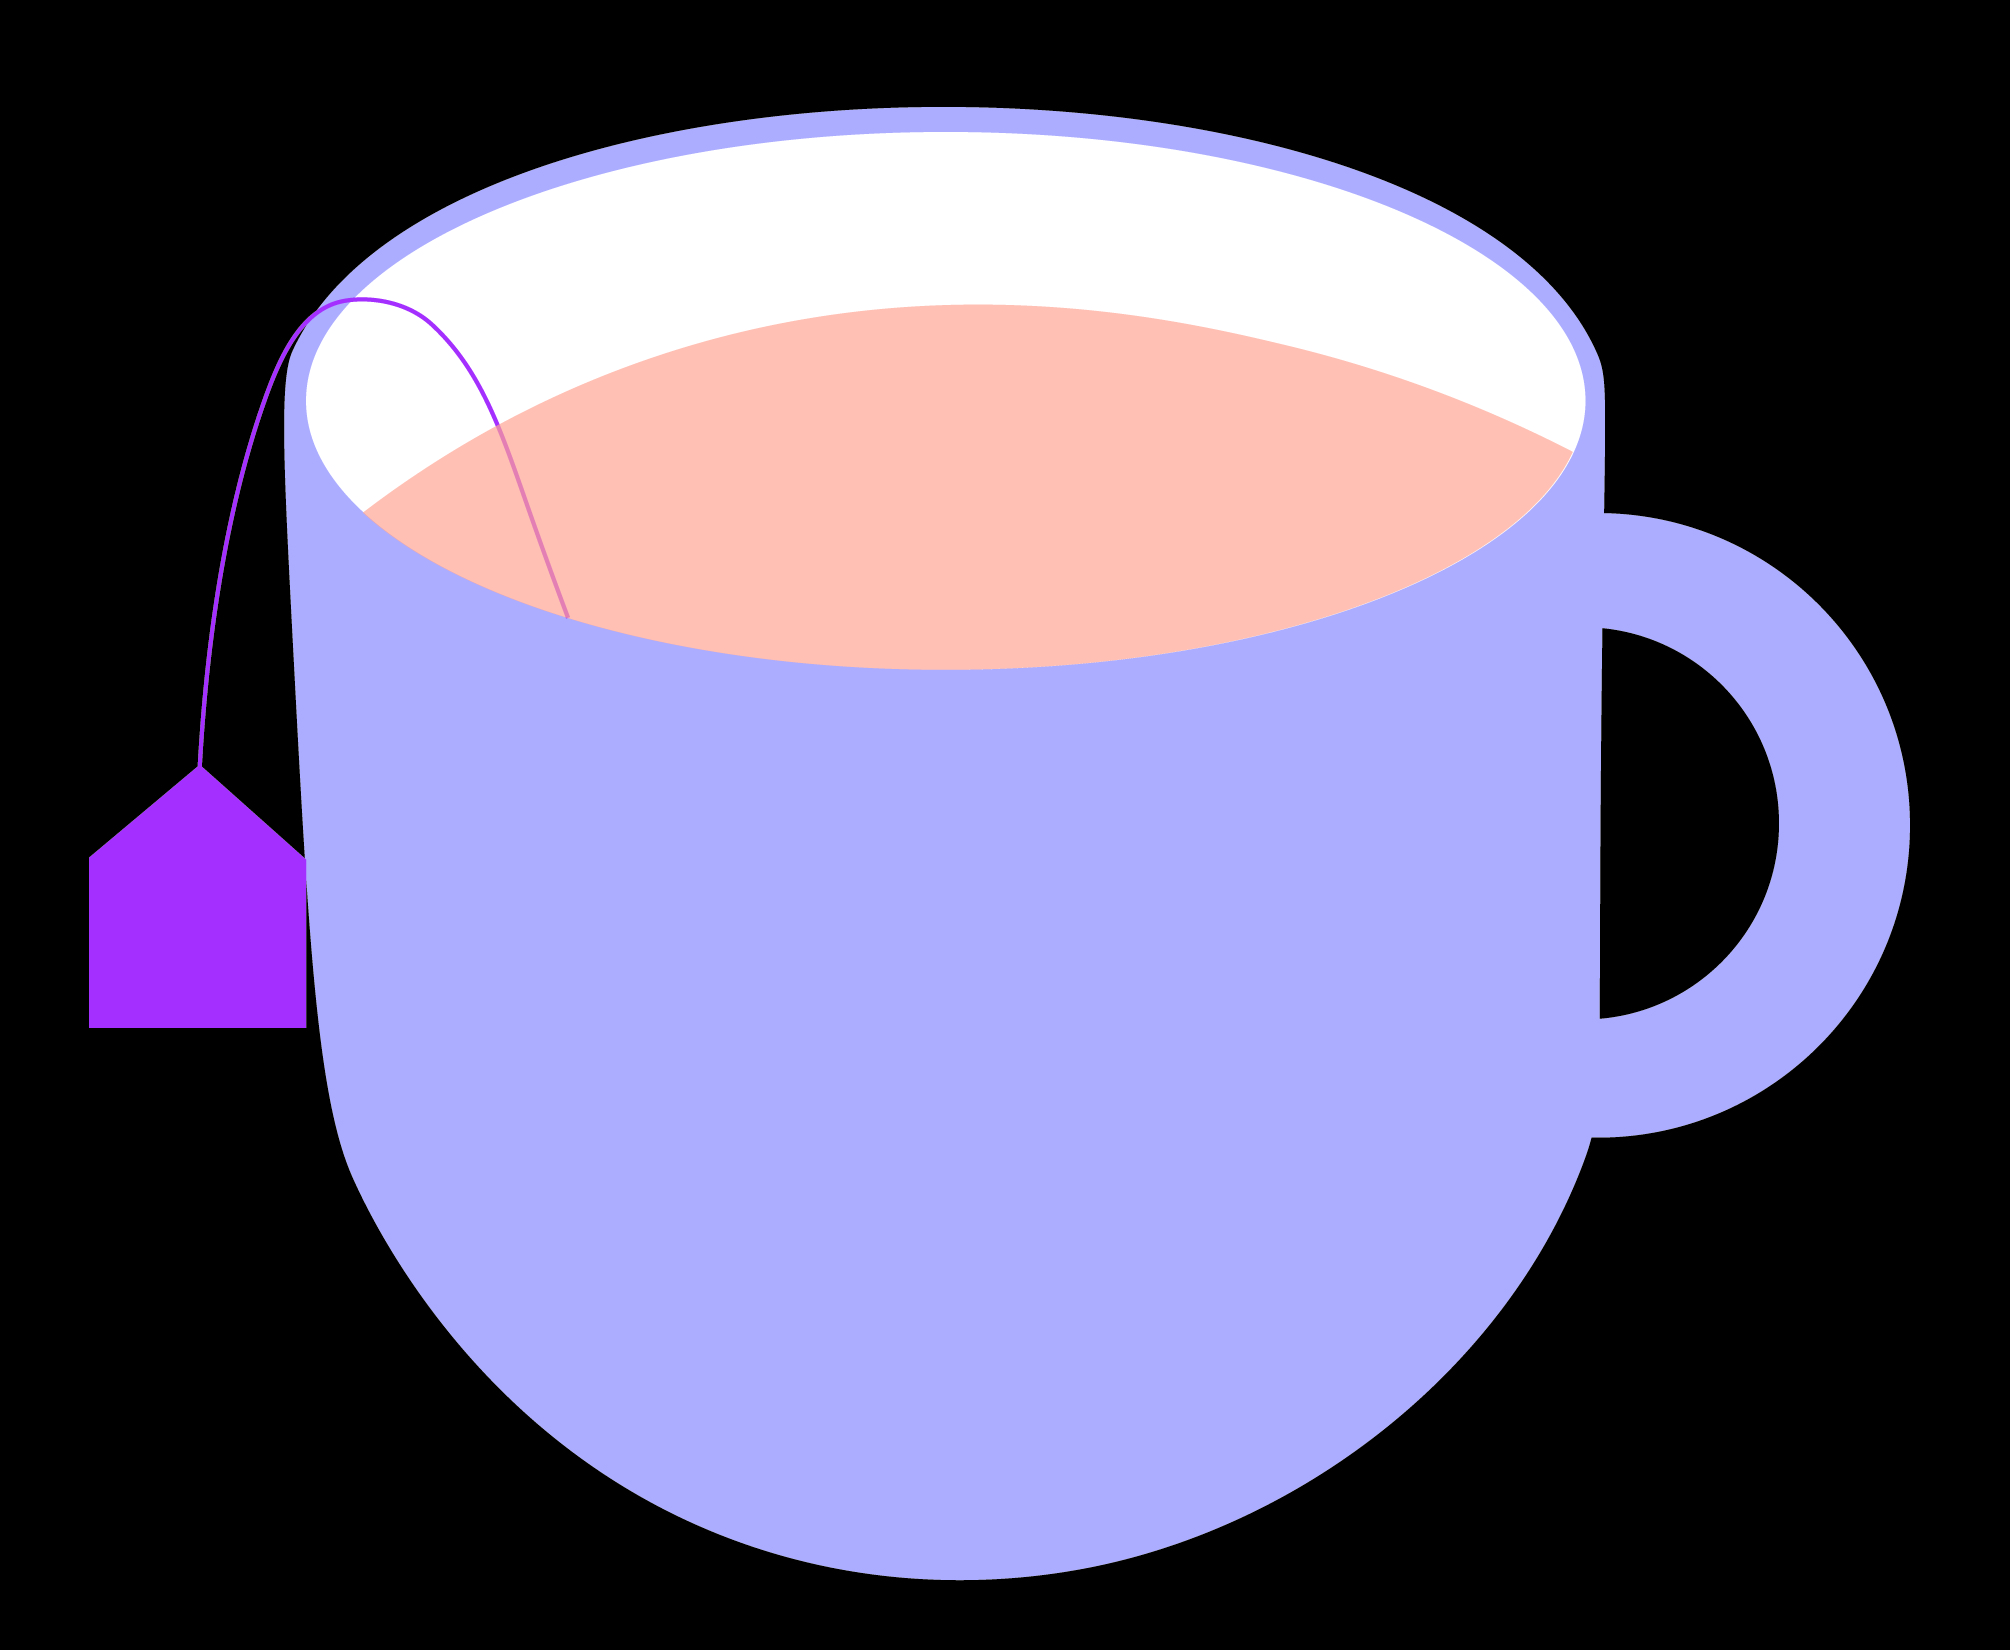
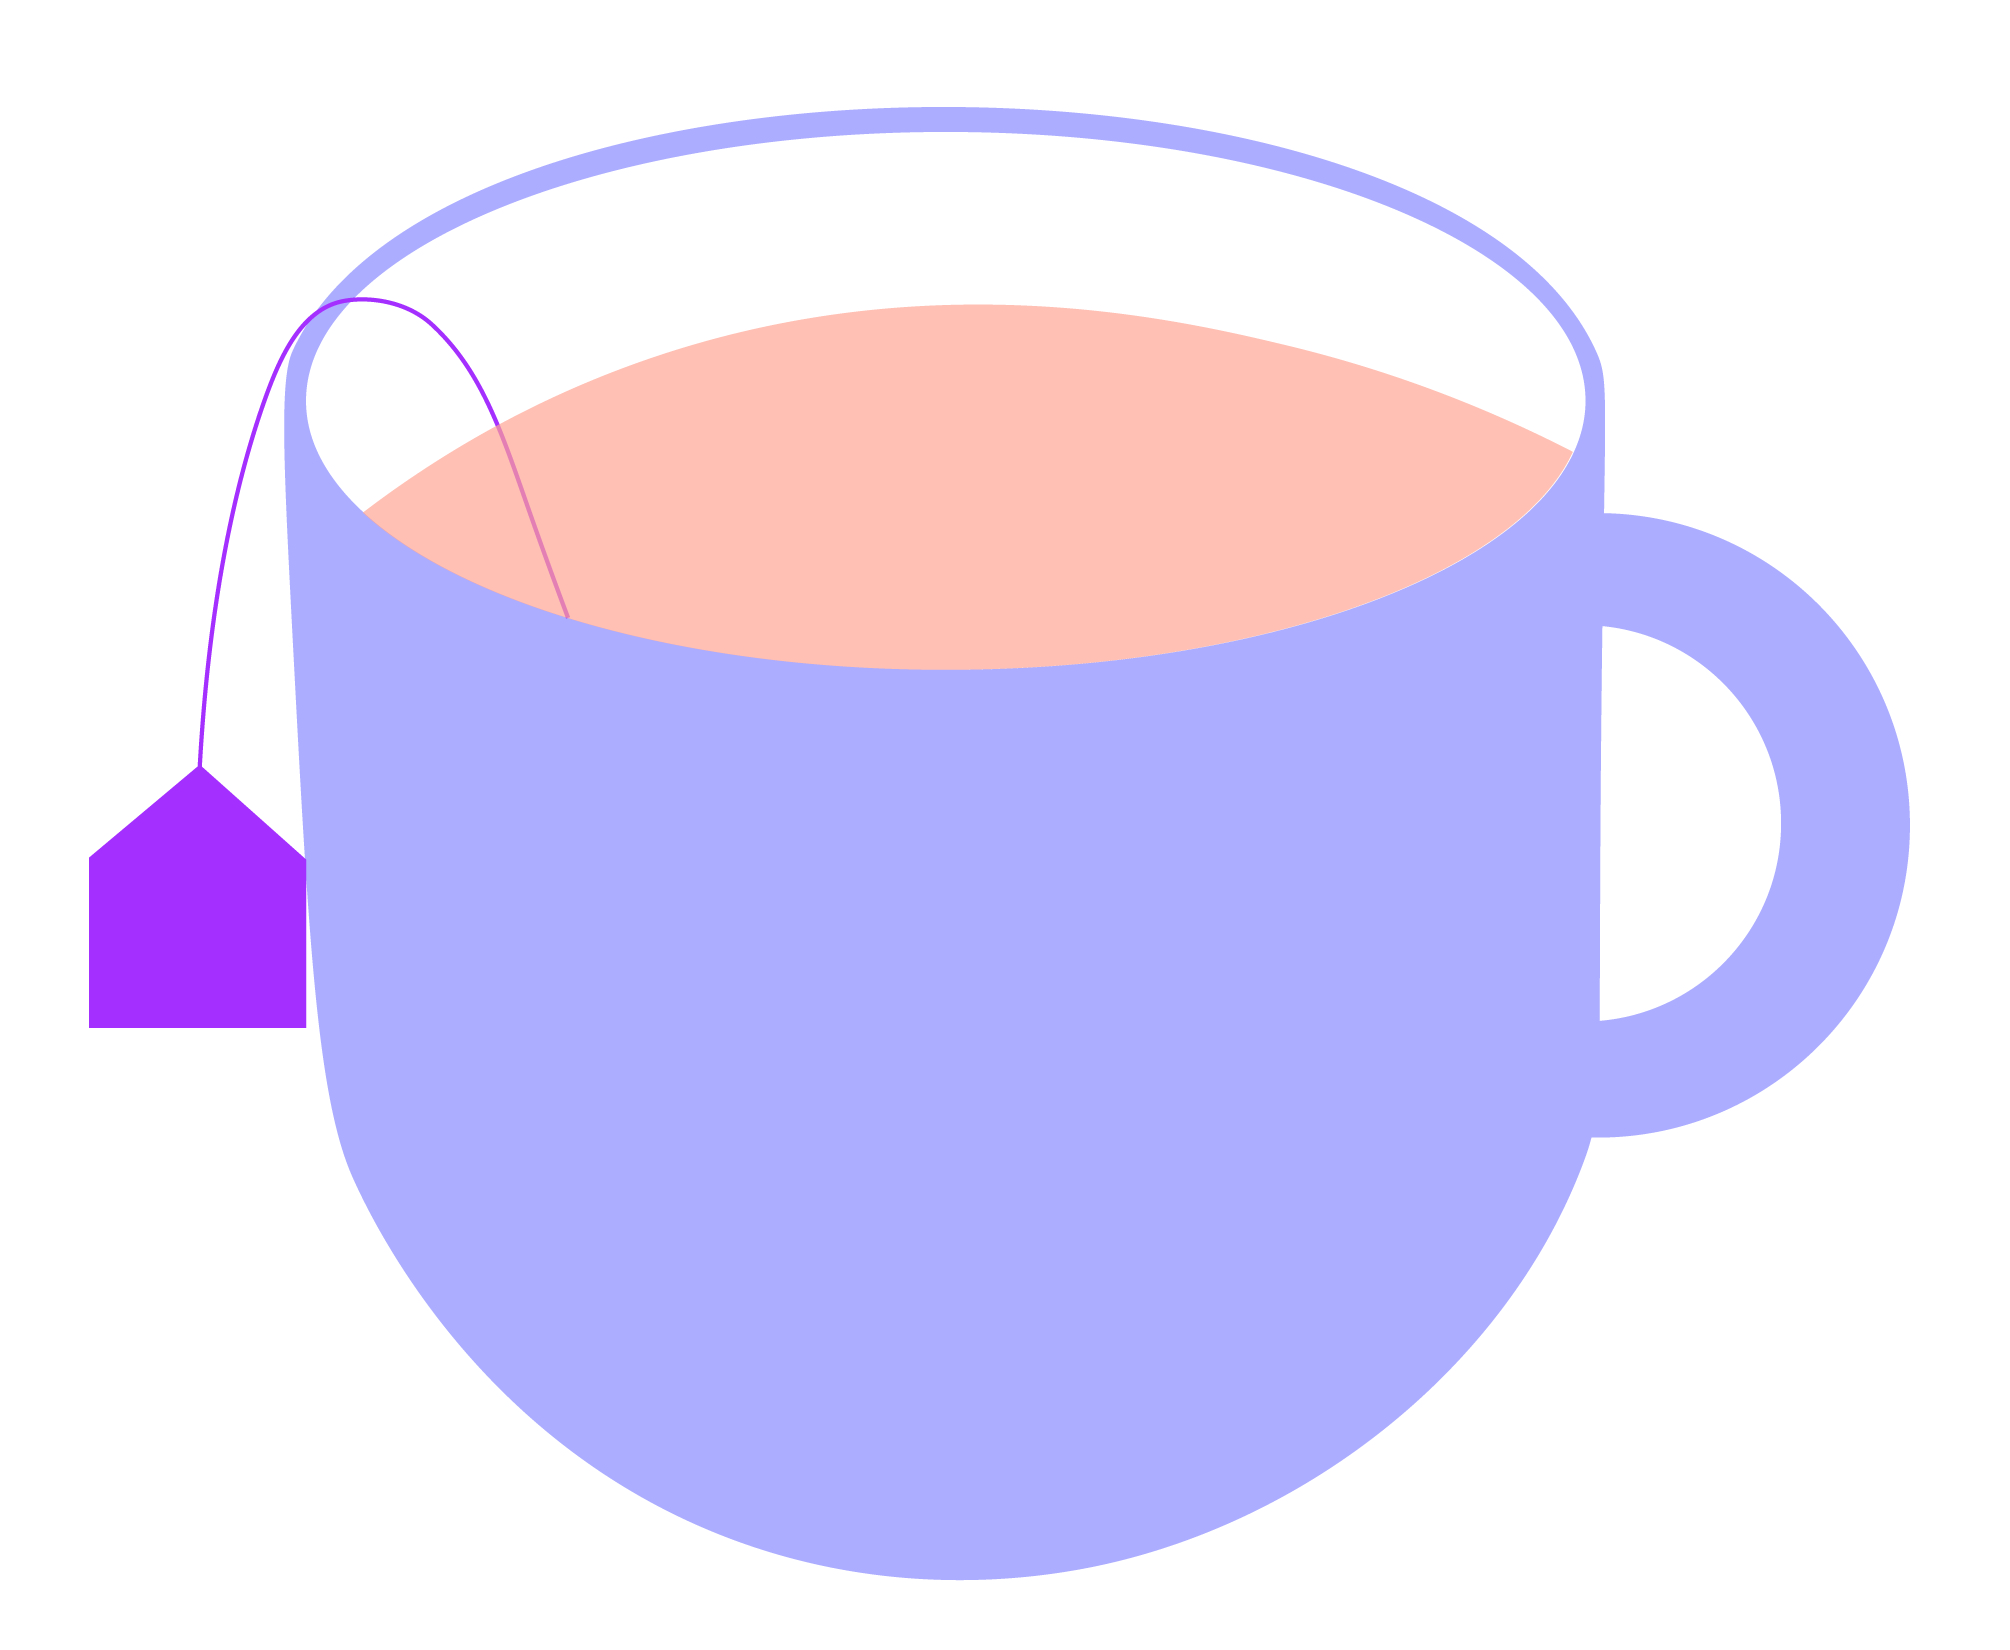
nov 6 2

diff --git a/snake/oanh-pham_act2/rr.css b/snake/oanh-pham_act2/rr.css
@@ -1,4 +1,48 @@
 body{
-	background-color:  black;
-	color: white;
+	background-color:  white;
+	color: black;
+}
+h{
+	text-transform: uppercase;
+    position: absolute;
+    margin-top: 20px;
+    margin-left: 20px;
+    text-align: left;
+    font-family: titling-gothic-fb-compressed, sans-serif;
+    font-weight: 400;
+    font-style: normal;
+    font-size: 50pt;
+    letter-spacing: 2px;
+}
+img{
+	position: relative;
+	margin-top: 130px;
+    margin-left: 20px;
+}
+h2{
+	text-transform: uppercase;
+    position: relative;
+    margin-top: 50px;
+    margin-left: 20px;
+    text-align: left;
+    font-family: titling-gothic-fb-compressed, sans-serif;
+    font-weight: 400;
+    font-style: normal;
+    font-size: 50pt;
+    letter-spacing: 2px;
+}
+p{
+	background-color: lavender;
+	position: relative;
+	margin-top: 50px;
+    margin-left: 20px;
+    width: 575px;
+    text-align: left;
+    font-family: source sans pro, sans-serif;
+    font-weight: 600;
+    font-style: normal;
+    line-height: 21pt; 
+    font-size: 14pt;
+    color: black;
+    letter-spacing: 0.5px;
 }

diff --git a/snake/oanh-pham_act2/rr.html b/snake/oanh-pham_act2/rr.html
@@ -3,10 +3,12 @@
 <head>
 	<title>Reading Response</title>
 	<link rel="stylesheet" href="rr.css">
+	<link rel="stylesheet" href="https://use.typekit.net/jck0ynu.css">
 </head>
 <body>
-	<h>Website is a cup of tea</h>
-    <img src="tea-04.jpg" alt="cup of tea" height="50" width="50">
+	<h>Website is</h>
+    <img src="tea-04.jpg" alt="cup of tea" height="200" width="250">
+    <h2>a cup of tea!</h2>
 	<p>In my opinion, the website is like a cup of tea. It is simple and plain, which offers you so many opportunities to refine it and do it the way you want. You can add lemon, milk, honey, ice or anything you want to create your favorite cup of tea, just like how you add as many elements as you like on your website and redo or redesign it if you do not feel fit. There is no limit to what you can do.</p>
 
 </body>
